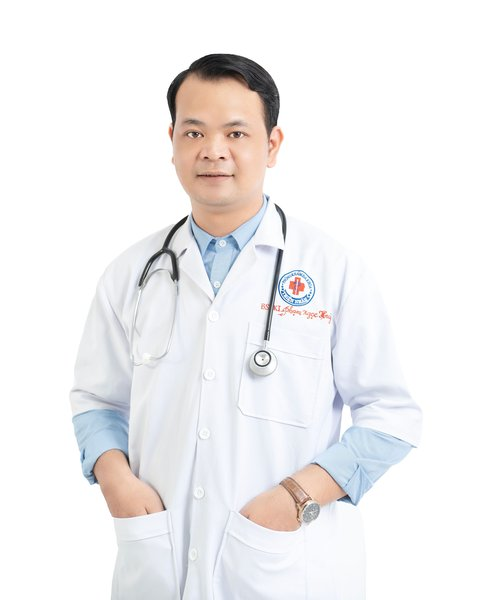
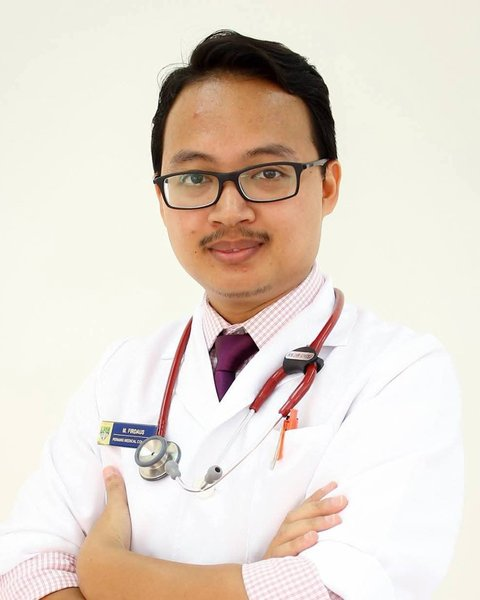
feat(ui): use our own doctor photo on the login page
Replace the stock Pexels portrait with our own doctor photo: a 4:5 crop
(984x1230 and 600x750 webp, no upscaling) for the landing card, a
192x192 face crop for the login and register avatars, and a refreshed
dr.jpg. Drop the old files and their Pexels credit.

diff --git a/resources/views/auth/login.blade.php b/resources/views/auth/login.blade.php
@@ -26,7 +26,7 @@
             </div>
 
             <figure class="relative flex max-w-md items-center gap-4 rounded-2xl bg-white/10 p-4 ring-1 ring-white/15 backdrop-blur">
-                <img src="{{ asset('images/doctor-avatar.webp') }}" width="192" height="192" alt="" class="h-14 w-14 rounded-xl object-cover ring-2 ring-white/30">
+                <img src="{{ asset('images/doctor-face-192.webp') }}" width="192" height="192" alt="" class="h-14 w-14 rounded-xl object-cover ring-2 ring-white/30">
                 <figcaption>
                     <p class="font-semibold">Welcome onboard with us!</p>
                     <p class="text-sm text-navy-100">Sign in with your hospital account to see your duties.</p>
@@ -39,7 +39,7 @@
             <div class="w-full max-w-md">
                 <div class="mb-8 lg:hidden">
                     <div class="relative mb-6 h-36 overflow-hidden rounded-2xl login-art">
-                        <img src="{{ asset('images/doctor-avatar.webp') }}" width="192" height="192" alt="" class="absolute bottom-3 right-3 h-16 w-16 rounded-xl object-cover ring-2 ring-white/40">
+                        <img src="{{ asset('images/doctor-face-192.webp') }}" width="192" height="192" alt="" class="absolute bottom-3 right-3 h-16 w-16 rounded-xl object-cover ring-2 ring-white/40">
                         <div class="absolute left-4 top-4"><x-ui.logo dark /></div>
                     </div>
                 </div>

diff --git a/resources/views/landing.blade.php b/resources/views/landing.blade.php
@@ -41,10 +41,10 @@
                     </div>
                 </div>
                 <div class="relative mx-auto w-full max-w-sm">
-                    <img src="{{ asset('images/doctor-1200.webp') }}"
-                         srcset="{{ asset('images/doctor-600.webp') }} 600w, {{ asset('images/doctor-1200.webp') }} 1200w"
-                         sizes="(min-width: 640px) 384px, 100vw" width="1200" height="1500"
-                         alt="A doctor at the hospital" class="aspect-[4/5] w-full rounded-3xl object-cover shadow-2xl ring-1 ring-white/20">
+                    <img src="{{ asset('images/doctor-card-984.webp') }}"
+                         srcset="{{ asset('images/doctor-card-600.webp') }} 600w, {{ asset('images/doctor-card-984.webp') }} 984w"
+                         sizes="(min-width: 640px) 384px, 100vw" width="984" height="1230"
+                         alt="A doctor at the hospital" class="aspect-[4/5] w-full rounded-3xl bg-[#f3f1ea] object-cover object-[50%_20%] shadow-2xl ring-1 ring-white/20">
                     <div class="absolute -bottom-6 -left-6 flex items-center gap-3 rounded-2xl bg-white p-4 text-navy-900 shadow-xl">
                         <span class="grid h-10 w-10 place-items-center rounded-xl bg-brand-50 text-brand-700"><i class="bi bi-calendar2-check" aria-hidden="true"></i></span>
                         <div>

diff --git a/resources/views/auth/register.blade.php b/resources/views/auth/register.blade.php
@@ -5,7 +5,7 @@
         </x-slot>
 
         <div class="mb-6 flex items-center gap-4">
-            <img src="{{ asset('images/doctor-avatar.webp') }}" width="192" height="192" alt="" class="h-12 w-12 rounded-xl object-cover ring-1 ring-line">
+            <img src="{{ asset('images/doctor-face-192.webp') }}" width="192" height="192" alt="" class="h-12 w-12 rounded-xl object-cover ring-1 ring-line">
             <div>
                 <h1 class="text-xl font-bold tracking-tight">Register</h1>
                 <p class="text-sm text-muted">Welcome onboard with us!</p>

diff --git a/README.md b/README.md
@@ -125,5 +125,5 @@ The department calendar uses FullCalendar's resource timeline. That plugin is pr
 
 ## Credits
 
-- Doctor portrait (`public/images/doctor-*.webp`, `dr.jpg`): [Hiếu Lê on Pexels](https://www.pexels.com/photo/professional-doctor-in-white-coat-with-stethoscope-38618421/), Pexels License.
+- Doctor portrait (`public/images/doctor-card-*.webp`, `doctor-face-192.webp`, `dr.jpg`): supplied by the project owner.
 - Login background (`public/images/login_bg.jpg`): [Vitaly Gariev on Unsplash](https://unsplash.com/photos/doctor-writing-on-clipboard-in-office-xDNwySMfR5I), Unsplash License.
